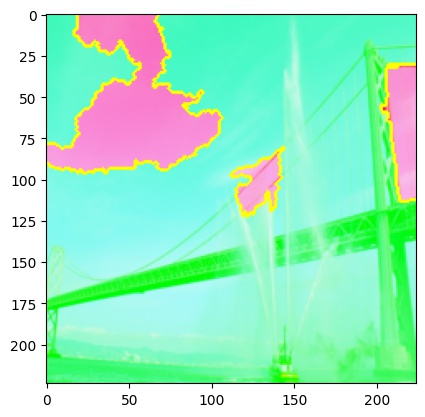
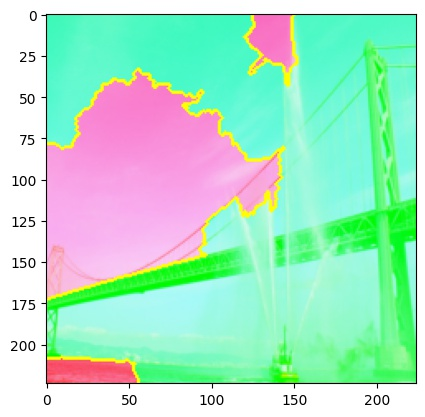
add diff scale method

diff --git a/runner.py b/runner.py
@@ -13,13 +13,23 @@ def normalize_explanations(explanation, explanation_norm_type):
     """
 
     :param explanation: np array
-    :param explanation_norm_type: takes in std or minmax
+    :param explanation_norm_type: takes in std, minmax, or scale
     :return:
     """
     if explanation_norm_type == "std":
         explanation = (explanation - torch.mean(explanation)) / torch.std(explanation, unbiased=False)
+    if explanation_norm_type == "minmax":
+        maxval = torch.max(explanation)
+        minval = torch.min(explanation)
+        explanation_std = (explanation - minval) / (maxval - minval)
+        explanation = explanation_std * (maxval - minval) + minval
+    if explanation_norm_type == "scale":
+        maxval = torch.max(explanation)
+        explanation = explanation/maxval
+    if explanation_norm_type == "none":
+        explanation = explanation
     else:
-        explanation = (explanation - torch.min(explanation)) / (torch.max(explanation) - torch.min(explanation))
+        raise ValueError
     return explanation
 
 
@@ -28,7 +38,6 @@ def evaluate_pixel_based_methods(explanation, input_image, image, image_name, mo
     explanation = normalize_explanations(explanation, explanation_norm_type=explanation_norm_type)
     input_image_w_gradient = input_image.clone()
     input_image_w_gradient[abs(explanation) < threshold] = 0
-    print("input_image_w_gradient shape", input_image_w_gradient.shape)
 
     # plot
     gradient_and_orig = pil_image(Visualize(
@@ -83,8 +92,8 @@ if __name__ == '__main__':
     image_path = "./data/fireboat.jpeg"
     image_name = "fireboat"
     label_name = "fireboat"
-    explanation_norm_type = "std"
-    zero_out_threshold = 0.1
+    explanation_norm_type = "minmax"
+    zero_out_threshold = 0.01
     path = './outputs/results_' + image_name + "_" + \
            explanation_norm_type + "_" + "{:.2f}".format(zero_out_threshold) + '.txt'
 
